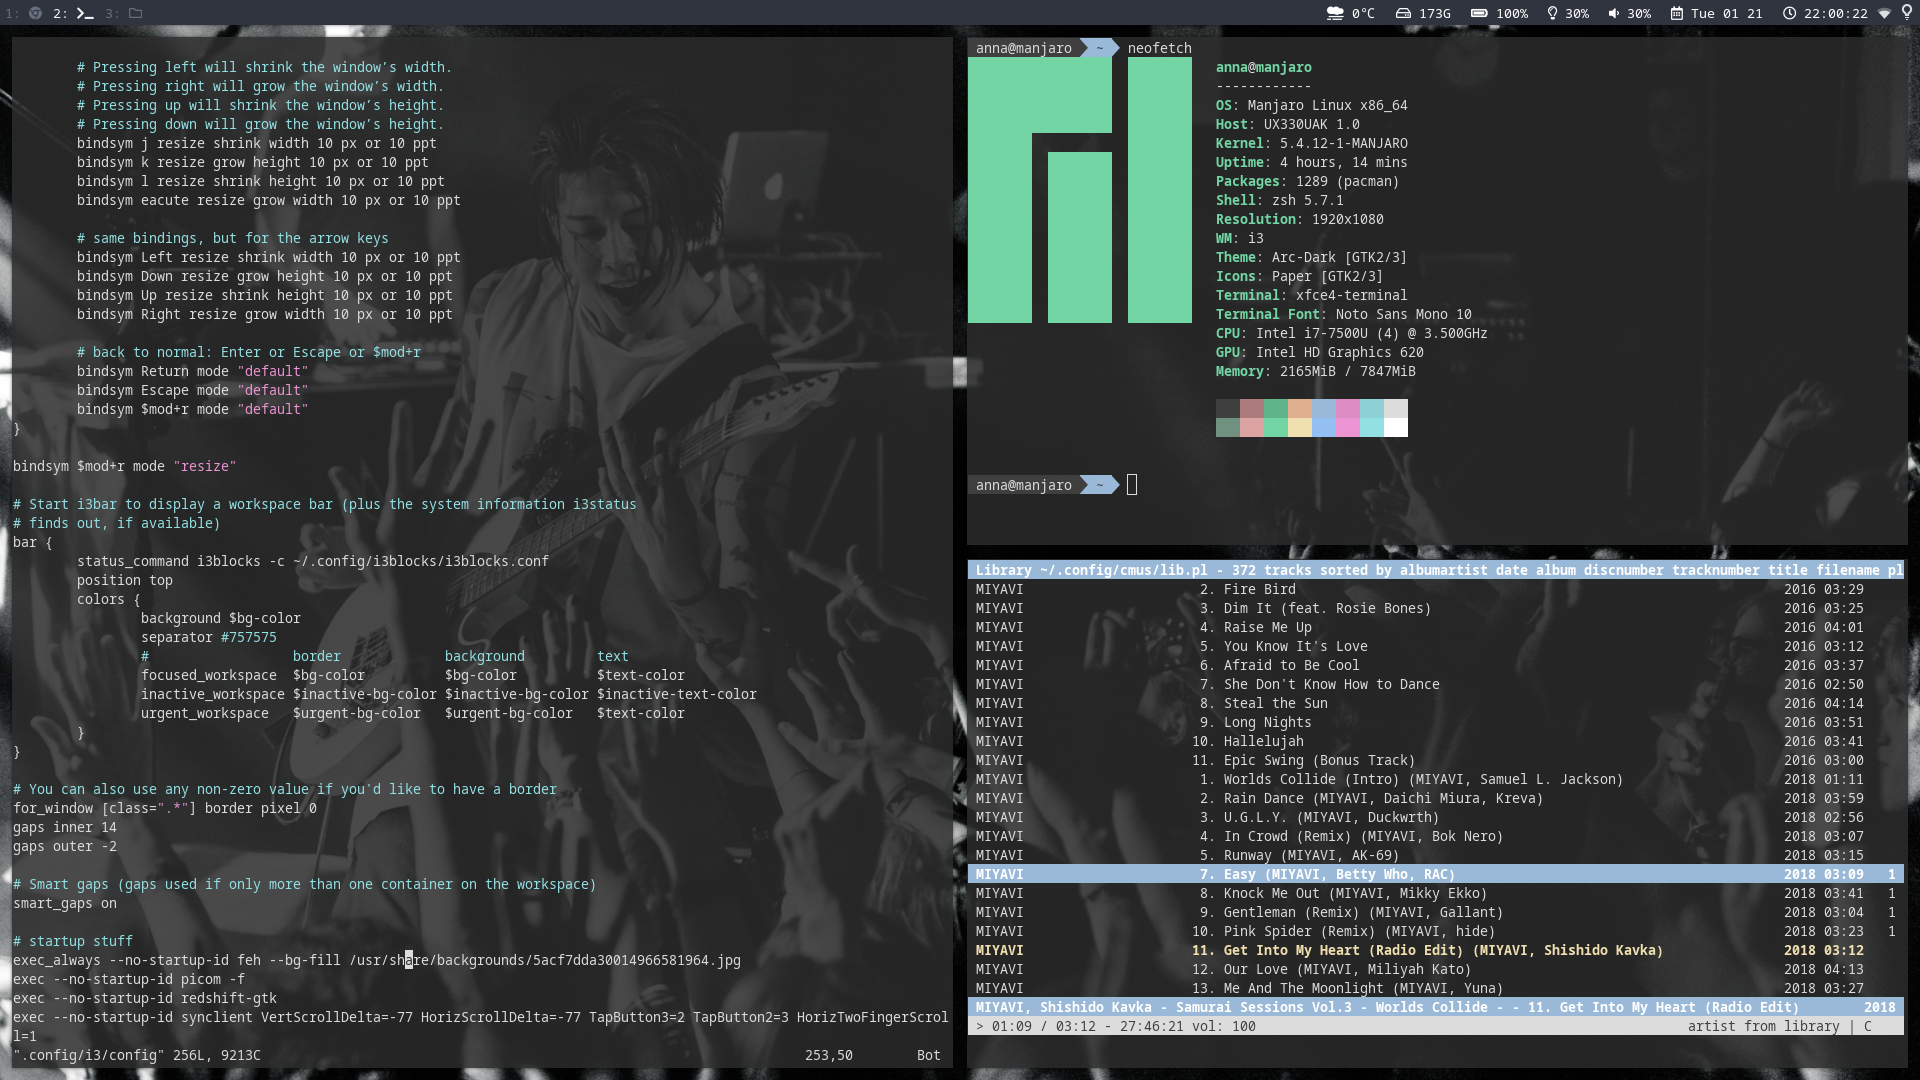
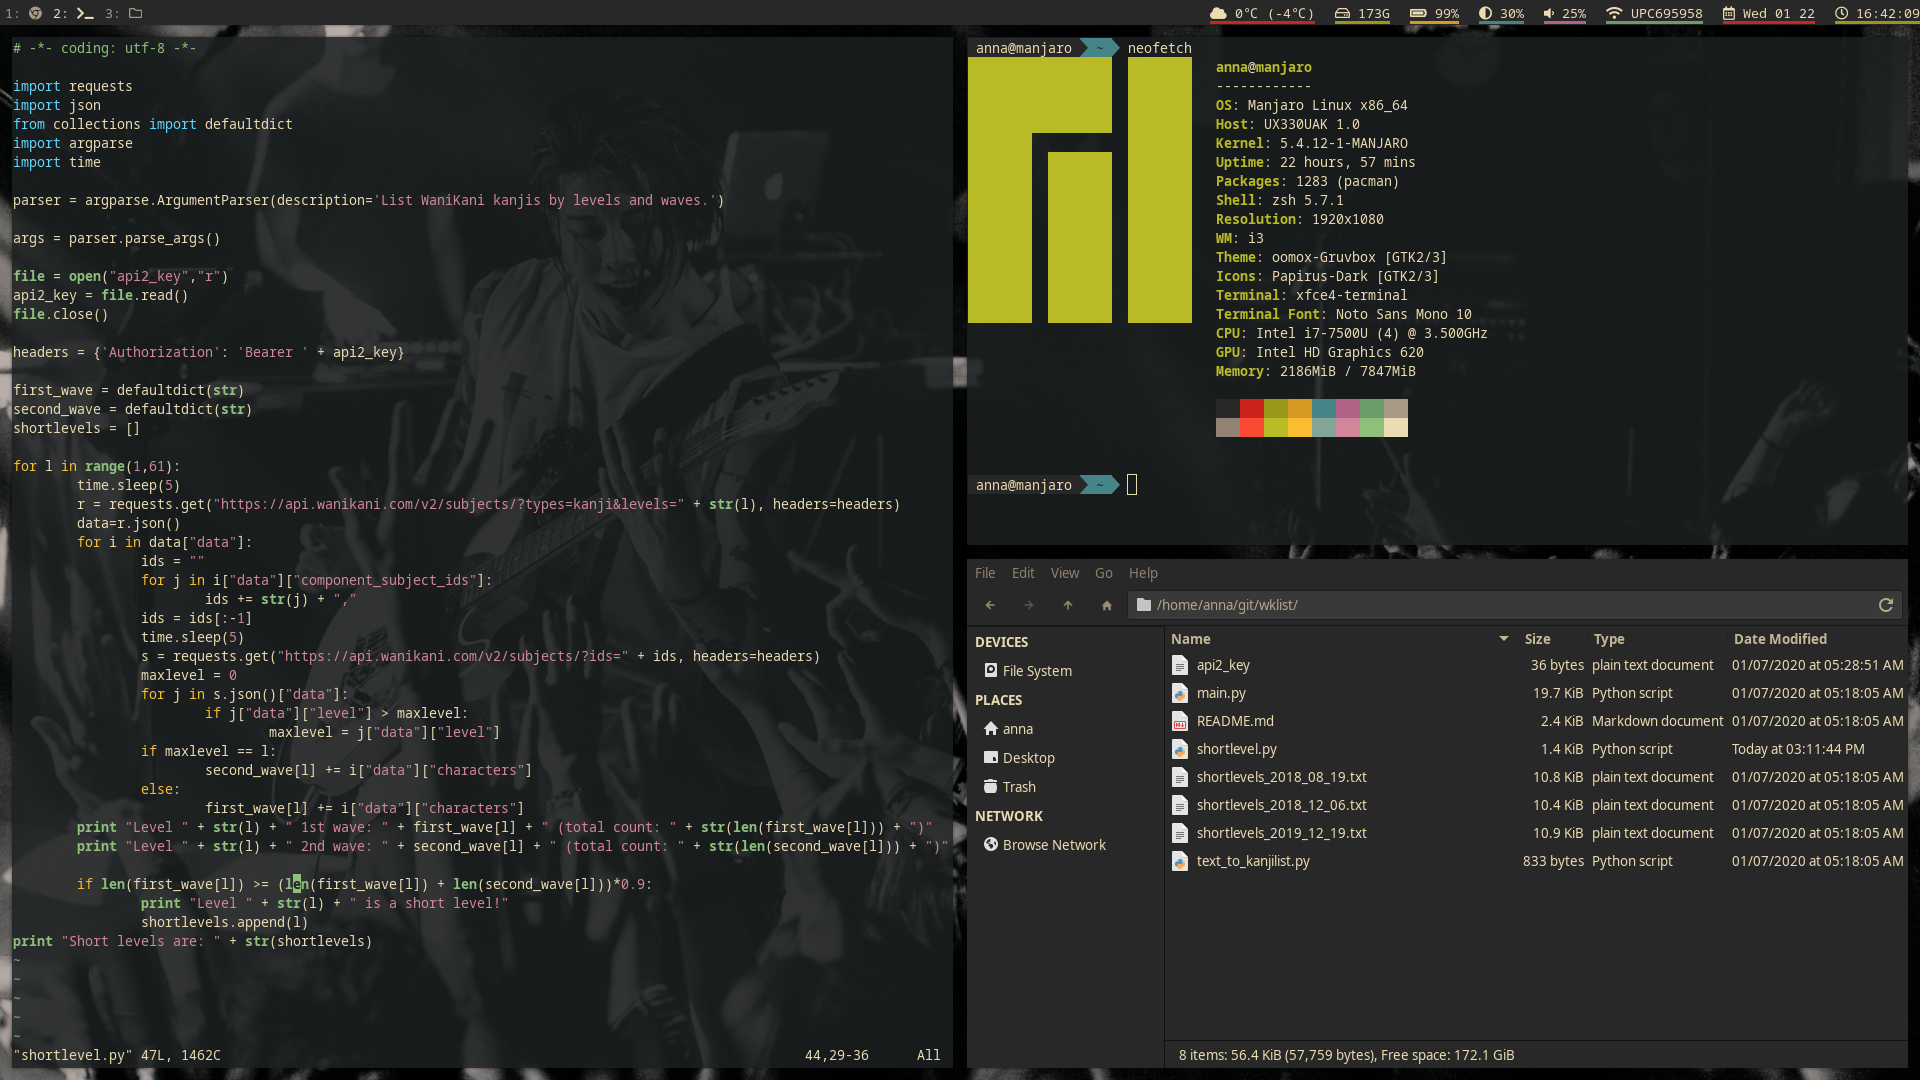
gruvboooox

diff --git a/README.md b/README.md
@@ -2,6 +2,17 @@
 
 It would be a shame if my touchpad settings would get lost.
 
-Wallpaper from [Miyavi concert, 2017 Budapest, A38](https://www.a38.hu/storage/app/uploads/public/5ac/f7d/da3/5acf7dda30014966581964.jpg).
+Wallpaper: [Miyavi concert, 2017 Budapest, A38](https://www.a38.hu/storage/app/uploads/public/5ac/f7d/da3/5acf7dda30014966581964.jpg) (modified to fit better with gruvbox)
+Color scheme: [Gruvbox](https://github.com/morhetz/gruvbox)
+Xfce4-terminal theme: [gruvbox-dark-hard](https://github.com/morhetz/gruvbox-contrib/blob/master/xfce4-terminal/gruvbox-dark-hard.theme)
+GTK Theme: [oomox-Gruvbox](https://github.com/enindu/dotfiles/tree/master/gruvbox/home/enindu/.themes/oomox-Gruvbox)
+Sublime Text 3: [gruvbox](https://github.com/Briles/gruvbox)
+Chrome theme: [chrome-gruvbox](https://github.com/bbrks/chrome-gruvbox)
+i3blocks scripts:
+- [battery](https://github.com/Anachron/i3blocks/blob/master/blocks/battery): modified to show changing icon
+- [brightness](https://github.com/Anachron/i3blocks/blob/master/blocks/brightness)
+- [disk](https://github.com/vivien/i3blocks-contrib/tree/master/disk)
+- [ssid](https://github.com/Anachron/i3blocks/blob/master/blocks/ssid)
+- [weather](https://github.com/Anachron/i3blocks/blob/master/blocks/weather): changed icons, removed -0℃, added feels like temperature
 
 ![alt text](https://raw.githubusercontent.com/annadorottya/dotfiles/master/screenshot.png "Screenshot")
